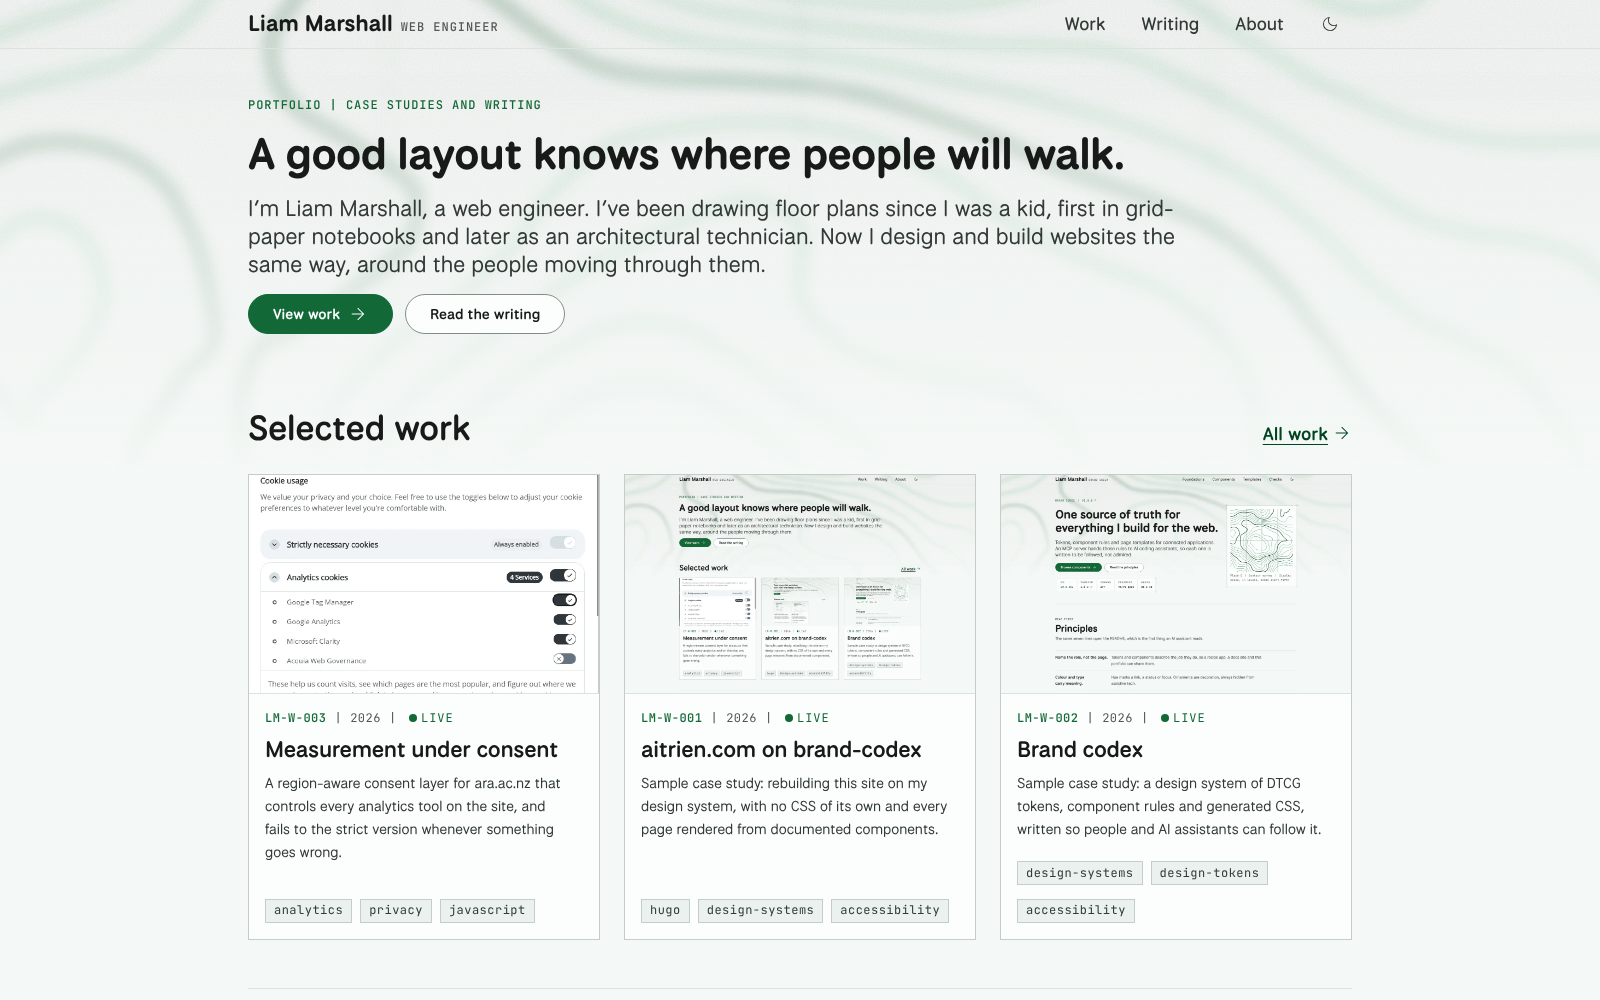
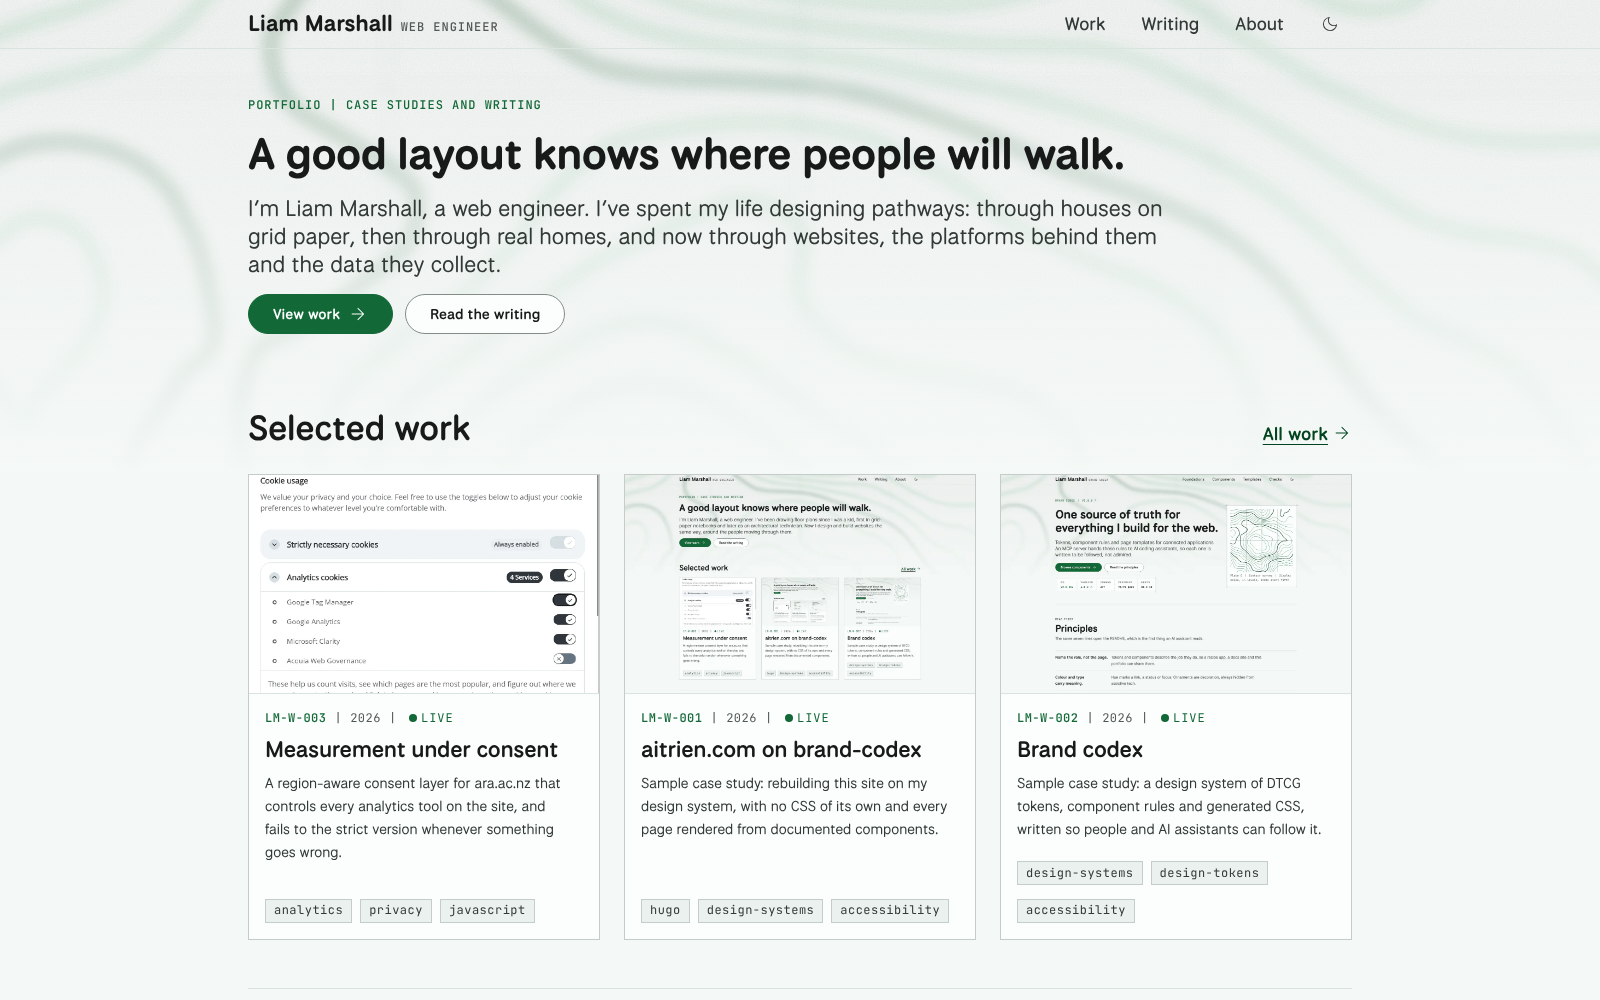
Home: the pathways summary; aitrien-com hero retaken
Claude-Session: https://claude.ai/code/session_01Twm6kJNAmEqS7ANipDVSQJ

Changed region(s): [[0.1562, 0.186, 0.75, 0.279], [0.4688, 0.589, 0.5, 0.62]]

diff --git a/content/_index.md b/content/_index.md
@@ -1,7 +1,7 @@
 ---
 title: A good layout knows where people will walk.
 eyebrow: Portfolio | Case studies and writing
-summary: I'm Liam Marshall, a web engineer. I've been drawing floor plans since I was a kid, first in grid-paper notebooks and later as an architectural technician. Now I design and build websites the same way, around the people moving through them.
+summary: "I'm Liam Marshall, a web engineer. I've spent my life designing pathways: through houses on grid paper, then through real homes, and now through websites, the platforms behind them and the data they collect."
 ---
 
 | Area | What I do | Evidence |
